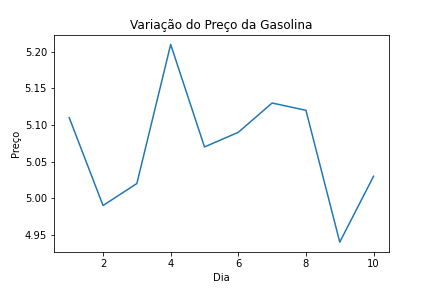
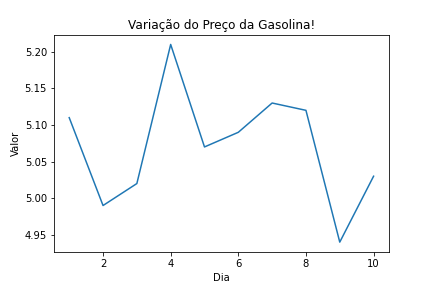
Os arquivos gasolina.png e gasolina.py foram modificados

Changed region(s): [[0.3009, 0.0625, 0.7523, 0.125], [0.0, 0.4375, 0.0602, 0.5625]]

diff --git a/gasolina.py b/gasolina.py
@@ -7,6 +7,9 @@ import seaborn as sns
 
 df = pd.read_csv('gasolina.csv')
 
-figura = sns.lineplot(x='dia', y='venda', data=df)
-figura.set(xlabel='Dia', ylabel='Preço', title='Variação do Preço da Gasolina')
+figura = sns.lineplot(x='dia', y='venda', data=df, legend=False, markers=True)
+
+figura.set(xlabel='Dia', ylabel='Valor', title='Variação do Preço da Gasolina!')
 figura.figure.savefig("gasolina.png")
+
+#como já havia colocado essas informações na versão anterior, fiz pequenas alteraçoes e adicionei este comentário
